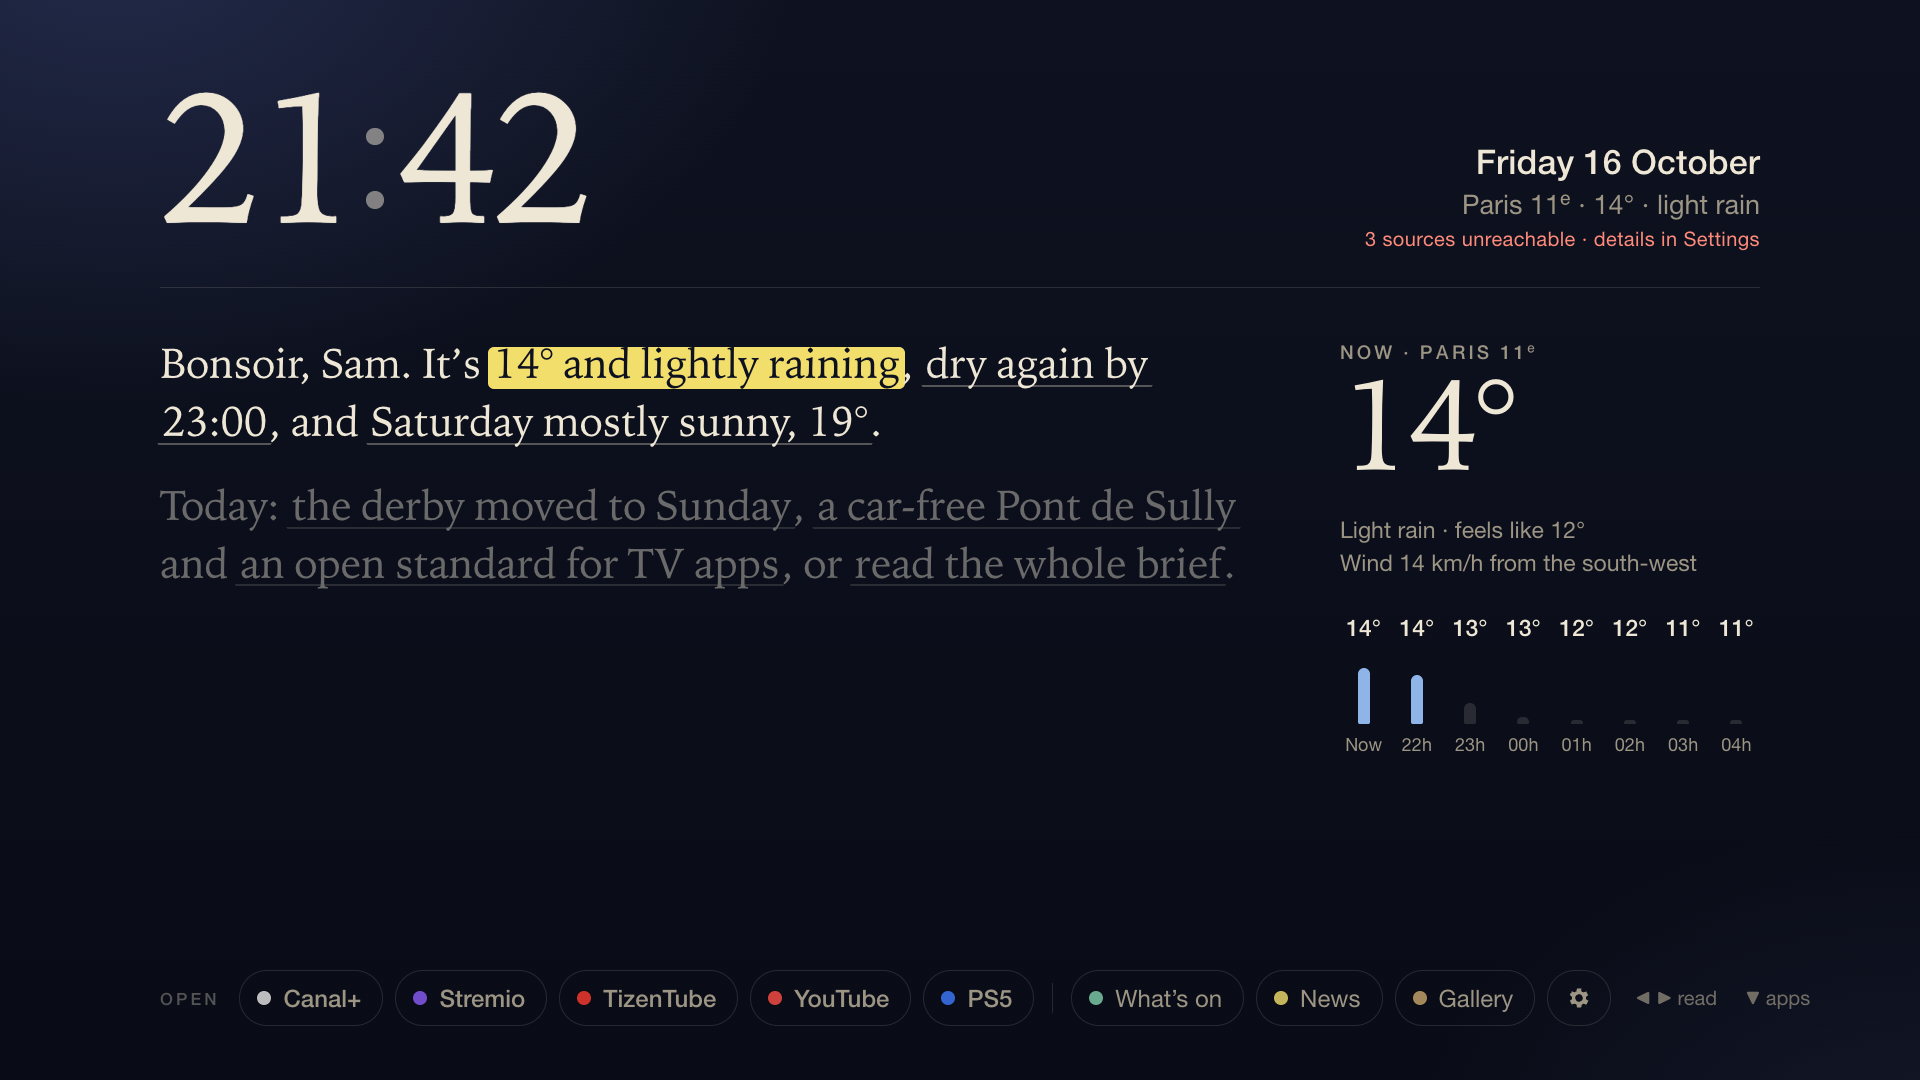
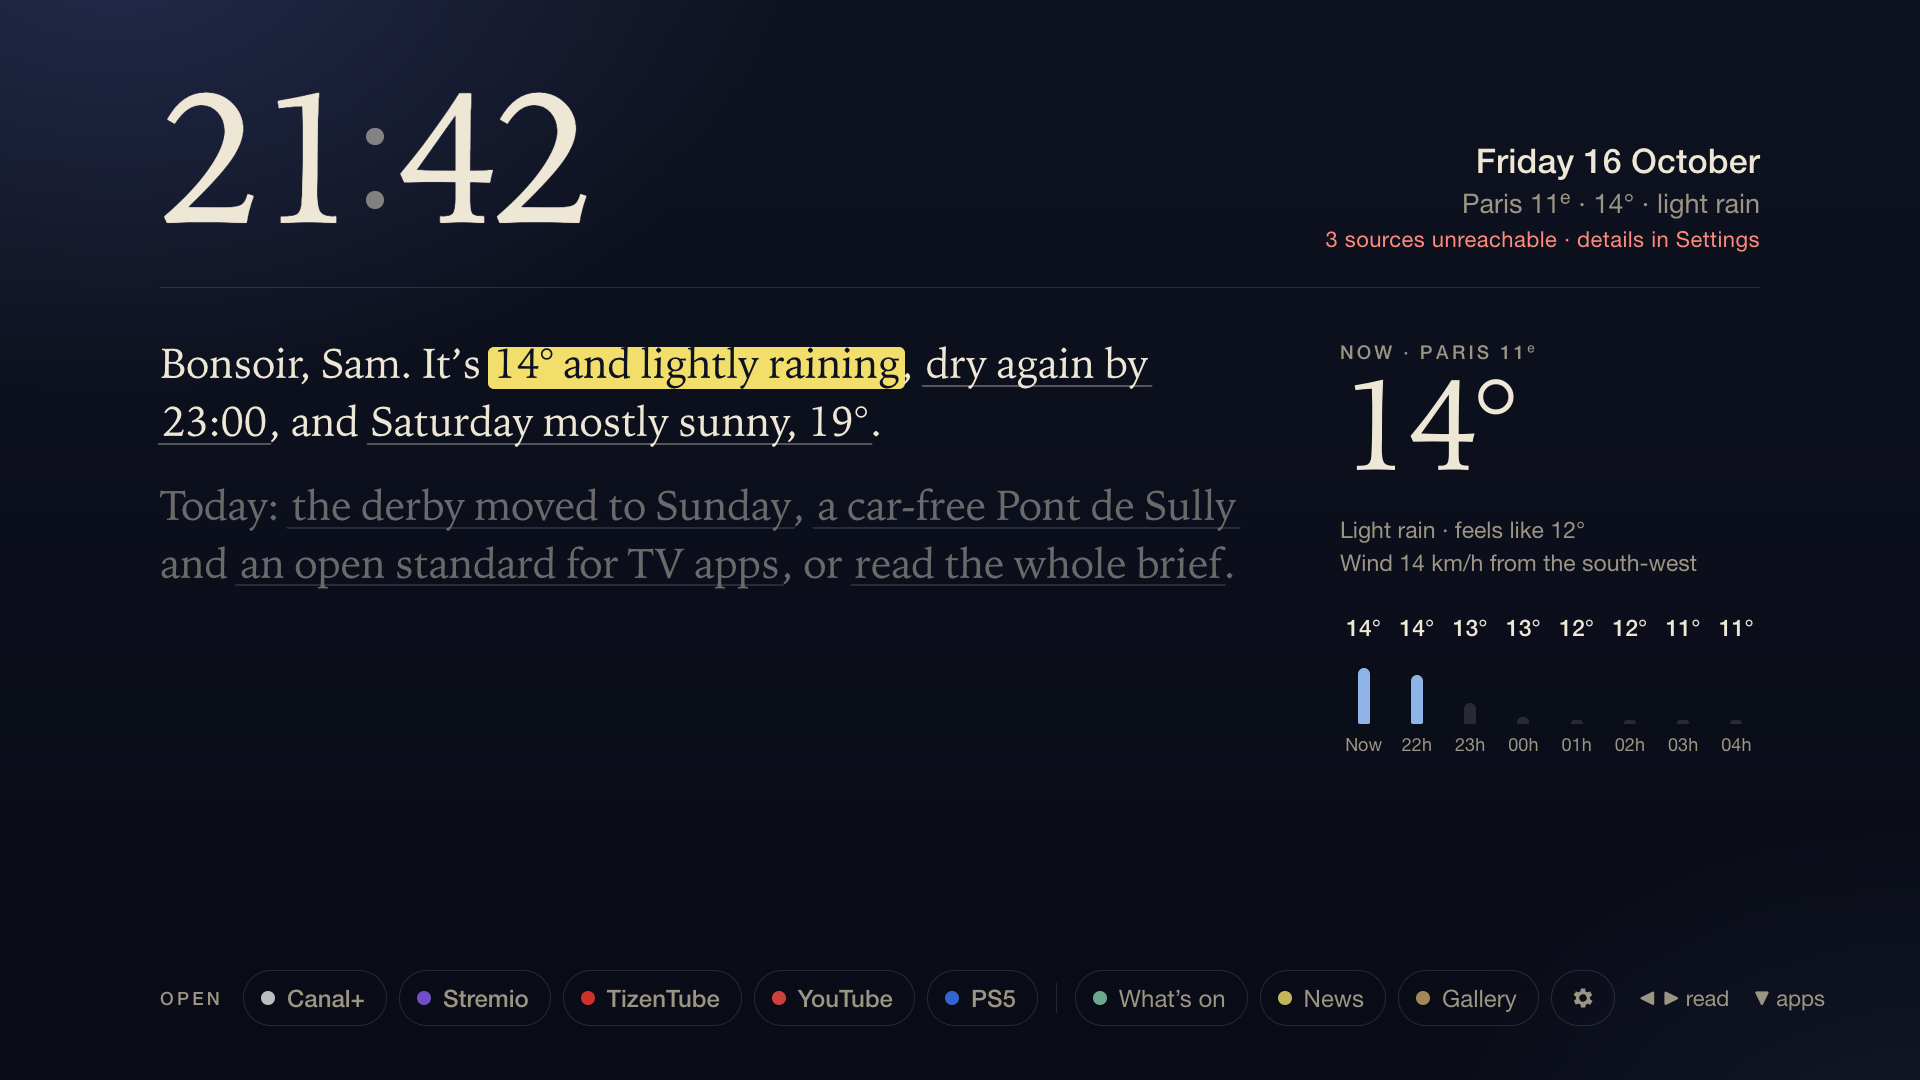
Readable from the sofa: hints, small print and honest empty states (#17)
* Readable from the sofa: remote hints, freshness line and small print

On the dark stage, the remote hints were drawn at 70% opacity (3.7:1
contrast) and the "Updated…" line, the OPEN label, the build line, the
gallery tab counts and the story source at --paper-faint (2.5:1), some of
them at 15 to 16 px. They now use --paper-dim (6.4:1) at 18 to 22 px; row
metadata goes from 18 to 20 px and the OK/Back key caps from 15 to 16 px.
The README screenshots that show these are regenerated.

* Empty lists say whether they are loading, unreachable or really empty

What's on said "No matches this week, or the scores are still loading"
whatever the case, and the news tabs said "Nothing here yet." Both now
read the source status: still loading, can't be reached (with where to
retry, since Smart Remotes have no Red key), or genuinely empty.

diff --git a/app/style.css b/app/style.css
@@ -71,7 +71,7 @@ body.ambient .view { opacity: 0 !important; transition: opacity .9s var(--ease-i
 .dateline { display: flex; flex-direction: column; align-items: flex-end; gap: 6px; text-align: right; }
 .dateline b { font-size: 34px; font-weight: 500; letter-spacing: .005em; }
 #placeline { font-size: 27px; color: var(--paper-dim); }
-.freshness { font-size: 20px; color: var(--paper-faint); letter-spacing: .02em; min-height: 26px; }
+.freshness { font-size: 22px; color: var(--paper-dim); letter-spacing: .02em; min-height: 26px; }
 .freshness.bad { color: var(--alert); }
 
 /* the letter */
@@ -111,7 +111,7 @@ body.ambient .view { opacity: 0 !important; transition: opacity .9s var(--ease-i
 .nmeta { font-size: 23px; line-height: 1.45; color: var(--paper-dim); }
 .ok { display: flex; align-items: center; gap: 12px; margin-top: 26px; font-size: 22px; color: var(--paper); }
 .ok kbd, .svalue kbd {
-  font-family: var(--sans); font-size: 15px; font-weight: 700; letter-spacing: .06em;
+  font-family: var(--sans); font-size: 16px; font-weight: 700; letter-spacing: .06em;
   border: 1.5px solid var(--paper-faint); border-radius: 999px; padding: 4px 11px;
 }
 .big { font-family: var(--serif); font-size: 128px; line-height: .9; font-weight: 300; letter-spacing: -.03em; margin-bottom: 16px; }
@@ -161,7 +161,7 @@ body.ambient .view { opacity: 0 !important; transition: opacity .9s var(--ease-i
 /* the rack */
 .rackrow { position: absolute; left: 160px; right: 160px; bottom: 52px; height: 60px; display: flex; align-items: center; justify-content: space-between; }
 .shelf { position: relative; display: flex; align-items: center; gap: 12px; height: 100%; }
-.racklabel { font-size: 17px; letter-spacing: .18em; text-transform: uppercase; color: var(--paper-faint); margin-right: 8px; font-weight: 500; }
+.racklabel { font-size: 18px; letter-spacing: .18em; text-transform: uppercase; color: var(--paper-dim); margin-right: 8px; font-weight: 500; }
 .rack-marker {
   position: absolute; left: 0; top: 2px; bottom: 2px; width: 0; border-radius: 999px; background: var(--marker);
   opacity: 0; transition: transform .42s var(--ease-spring), width .42s var(--ease-spring), opacity .2s linear;
@@ -178,7 +178,7 @@ body.ambient .view { opacity: 0 !important; transition: opacity .9s var(--ease-i
 .chip.on i { transform: scale(1.25); opacity: 1; }
 .rack-divider { width: 1px; height: 30px; background: var(--rule); margin: 0 6px; }
 .chip.quiet { font-weight: 400; }
-.hint { display: flex; gap: 28px; font-size: 20px; color: var(--paper-dim); opacity: .7; white-space: nowrap; flex: none; margin-left: 24px; }
+.hint { display: flex; gap: 24px; font-size: 22px; color: var(--paper-dim); white-space: nowrap; flex: none; margin-left: 24px; }
 
 /* news */
 .news-head { position: absolute; left: 160px; right: 160px; top: 60px; display: flex; justify-content: space-between; align-items: flex-end; }
@@ -222,7 +222,7 @@ body.ambient .view { opacity: 0 !important; transition: opacity .9s var(--ease-i
 .row .rthumb { width: 150px; height: 96px; flex: none; border-radius: 10px; }
 .rtext { min-width: 0; display: flex; flex-direction: column; justify-content: center; gap: 8px; }
 .rtitle { font-size: 23px; line-height: 1.28; color: var(--paper-soft); display: -webkit-box; -webkit-line-clamp: 2; -webkit-box-orient: vertical; overflow: hidden; }
-.rmeta { font-size: 18px; color: var(--paper-dim); }
+.rmeta { font-size: 20px; color: var(--paper-dim); }
 .row.selected { background: rgba(239, 231, 214, .05); }
 .row.selected .rtitle { color: var(--paper); }
 .row.on { background: rgba(239, 231, 214, .09); box-shadow: inset 0 0 0 3px var(--marker); transform: translateX(-4px); }
@@ -231,7 +231,7 @@ body.ambient .view { opacity: 0 !important; transition: opacity .9s var(--ease-i
 .row.skeleton .rtext i { display: block; height: 20px; border-radius: 6px; }
 .row.skeleton .rtext i + i { width: 60%; }
 .empty { font-size: 24px; color: var(--paper-dim); padding: 20px; }
-.news-hint { position: absolute; left: 160px; bottom: 44px; display: flex; gap: 34px; font-size: 20px; color: var(--paper-dim); opacity: .7; }
+.news-hint { position: absolute; left: 160px; bottom: 44px; display: flex; gap: 34px; font-size: 22px; color: var(--paper-dim); }
 
 /* what's on: football and Paris */
 .crests { flex: none; width: 150px; height: 96px; display: flex; align-items: center; justify-content: center; gap: 14px; border-radius: 10px; background: rgba(239, 231, 214, .05); }
@@ -263,7 +263,7 @@ body.ambient .view { opacity: 0 !important; transition: opacity .9s var(--ease-i
 .chip svg path { fill: currentColor; }
 
 /* gallery */
-.tab small { margin-left: 10px; font-size: 16px; color: var(--paper-faint); font-weight: 500; }
+.tab small { margin-left: 10px; font-size: 18px; color: var(--paper-dim); font-weight: 500; }
 .tab.on small { color: rgba(14, 18, 32, .55); }
 .gallery-grid { position: absolute; left: 160px; right: 160px; top: 300px; height: 600px; overflow: hidden;
   -webkit-mask-image: linear-gradient(180deg, #000 0, #000 calc(100% - 70px), transparent 100%);
@@ -289,7 +289,7 @@ body.ambient .view { opacity: 0 !important; transition: opacity .9s var(--ease-i
 .viewer.open { opacity: 1; pointer-events: auto; }
 .viewer .acaption { opacity: 1; transition: opacity .6s var(--ease); text-shadow: 0 2px 24px rgba(0, 0, 0, .55); }
 .viewer .acaption.out { opacity: 0; }
-.viewer-hint { position: absolute; left: 120px; top: 80px; display: flex; gap: 30px; font-size: 20px; color: var(--paper-dim); text-shadow: 0 2px 16px rgba(0, 0, 0, .6); }
+.viewer-hint { position: absolute; left: 120px; top: 80px; display: flex; gap: 30px; font-size: 22px; color: var(--paper-soft); text-shadow: 0 2px 16px rgba(0, 0, 0, .6); }
 
 /* settings */
 .sheet { position: absolute; inset: 0; pointer-events: none; z-index: 10; }
@@ -322,7 +322,7 @@ body.settings-open .sheet-panel { transform: none; }
 .status b { font-weight: 500; color: var(--paper-soft); white-space: nowrap; overflow: hidden; text-overflow: ellipsis; }
 .keys { display: flex; gap: 26px; margin-top: 26px; font-size: 18px; color: var(--paper-dim); }
 .keys i { display: inline-block; width: 22px; height: 12px; border-radius: 3px; margin-right: 8px; }
-.build { margin-top: 18px; font-size: 16px; color: var(--paper-faint); }
+.build { margin-top: 18px; font-size: 18px; color: var(--paper-dim); }
 
 /* ChatGPT pairing */
 .sheet-panel > h2, .srows, .sstatus { transition: opacity .3s var(--ease); }
@@ -403,9 +403,9 @@ body.ambient-art .acaption.out { opacity: 0; }
 #ambient .acaption { top: 340px; display: flex; flex-direction: column; justify-content: flex-end; }
 .astory:empty { display: none; }
 .afacts { margin-top: 20px; display: grid; grid-template-columns: auto 1fr; gap: 6px 18px; font-size: 18px; }
-.afacts dt { color: var(--paper-dim); letter-spacing: .08em; text-transform: uppercase; font-size: 15px; padding-top: 3px; }
+.afacts dt { color: var(--paper-dim); letter-spacing: .08em; text-transform: uppercase; font-size: 16px; padding-top: 3px; }
 .afacts dd { margin: 0; color: var(--paper-soft); }
-.asource { margin-top: 16px; font-size: 15px; color: var(--paper-faint); letter-spacing: .04em; }
+.asource { margin-top: 16px; font-size: 18px; color: var(--paper-dim); letter-spacing: .04em; }
 .viewer .acaption { top: 140px; bottom: 80px; max-width: 620px; display: flex; flex-direction: column; justify-content: flex-end; }
 .viewer .astory { display: block; -webkit-line-clamp: unset; overflow: visible; font-size: 22px; }
 .aqrcode { display: flex; align-items: center; gap: 22px; margin-top: 28px; padding: 18px 22px; border: 1px solid rgba(242,240,230,.16); background: rgba(14,18,32,.45); border-radius: 14px; width: fit-content; }

diff --git a/app/src/views/whatsOnView.ts b/app/src/views/whatsOnView.ts
@@ -92,6 +92,15 @@ export function createWhatsOnView(close: () => void): View & { focusOn(target: {
       ${event.url ? '<div class="ok"><kbd>OK</kbd>Open on paris.fr</div>' : ''}`;
   }
 
+  function emptyText(): string {
+    const football = tab === 'football';
+    const status = data.status.get(football ? 'sports' : 'events');
+    const loaded = football ? data.matchesAt : data.eventsAt;
+    if (status?.ok === false) return football ? 'The football scores can’t be reached right now. Settings → Refresh everything now tries again.' : 'Paris’s picks can’t be reached right now. Settings → Refresh everything now tries again.';
+    if (loaded === null) return football ? 'Loading this week’s matches…' : 'Loading this week’s picks…';
+    return football ? 'No matches in your leagues this week.' : 'No picks this week.';
+  }
+
   function renderTabs(): void {
     tabsNode.innerHTML = `<span class="tab-marker" id="whatson-tab-marker"></span>` + tabs().map(item =>
       `<span class="tab" data-focus="whatson-tab" data-tab="${item.id}">${escapeHtml(item.label)}</span>`).join('');
@@ -105,7 +114,7 @@ export function createWhatsOnView(close: () => void): View & { focusOn(target: {
     subtitle.textContent = tab === 'football'
       ? `${config.sports.leagues.map(league => league.name).join(', ')}${updated ? ` · updated ${relativeAge(updated)}` : ''}`
       : `The City of Paris’s picks${updated ? ` · updated ${relativeAge(updated)}` : ''}`;
-    track.innerHTML = list.length ? list.map(rowHtml).join('') : `<div class="empty">${tab === 'football' ? 'No matches this week, or the scores are still loading.' : 'Nothing picked yet, or still loading.'}</div>`;
+    track.innerHTML = list.length ? list.map(rowHtml).join('') : `<div class="empty">${escapeHtml(emptyText())}</div>`;
     applyFocus();
   }
 

diff --git a/app/src/views/newsView.ts b/app/src/views/newsView.ts
@@ -114,13 +114,21 @@ export function createNewsView(close: () => void): View & { focusTarget(target?:
       `<span class="tab" data-focus="tab" data-index="${index}">${escapeHtml(tab.label)}</span>`).join('');
   }
 
+  function emptyText(): string {
+    if (tabs[tabIndex]?.id === 'videos') return 'No clips right now. YouTube may be slow; try this tab again in a minute.';
+    const feeds = [...data.status.entries()].filter(([key]) => key.startsWith('feed:')).map(([, status]) => status);
+    if (!data.newsAt && feeds.length && feeds.every(status => status.ok === false)) return 'The news feeds can’t be reached right now. Settings → Refresh everything now tries again.';
+    if (!data.newsAt) return 'Fetching the feeds…';
+    return 'No stories here right now.';
+  }
+
   function renderList(): void {
     const list = items();
     if (!list.length) {
       const loading = tabs[tabIndex]?.id === 'brief' && data.briefLoading;
       listTrack.innerHTML = loading
         ? Array.from({ length: 5 }, () => `<div class="row skeleton"><div class="rthumb"></div><div class="rtext"><i></i><i></i></div></div>`).join('')
-        : `<div class="empty">${tabs[tabIndex]?.id === 'videos' ? 'No videos right now — YouTube may be slow.' : 'Nothing here yet.'}</div>`;
+        : `<div class="empty">${escapeHtml(emptyText())}</div>`;
       return;
     }
     listTrack.innerHTML = list.map((item, index) => {
